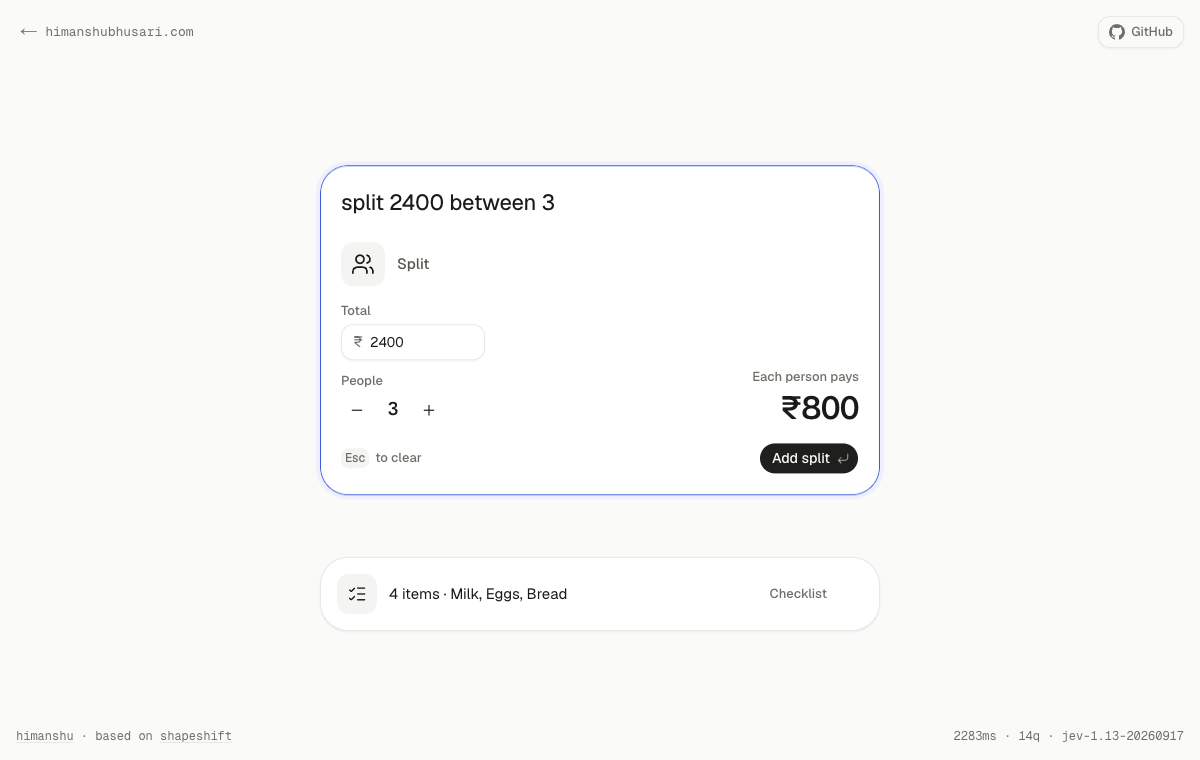
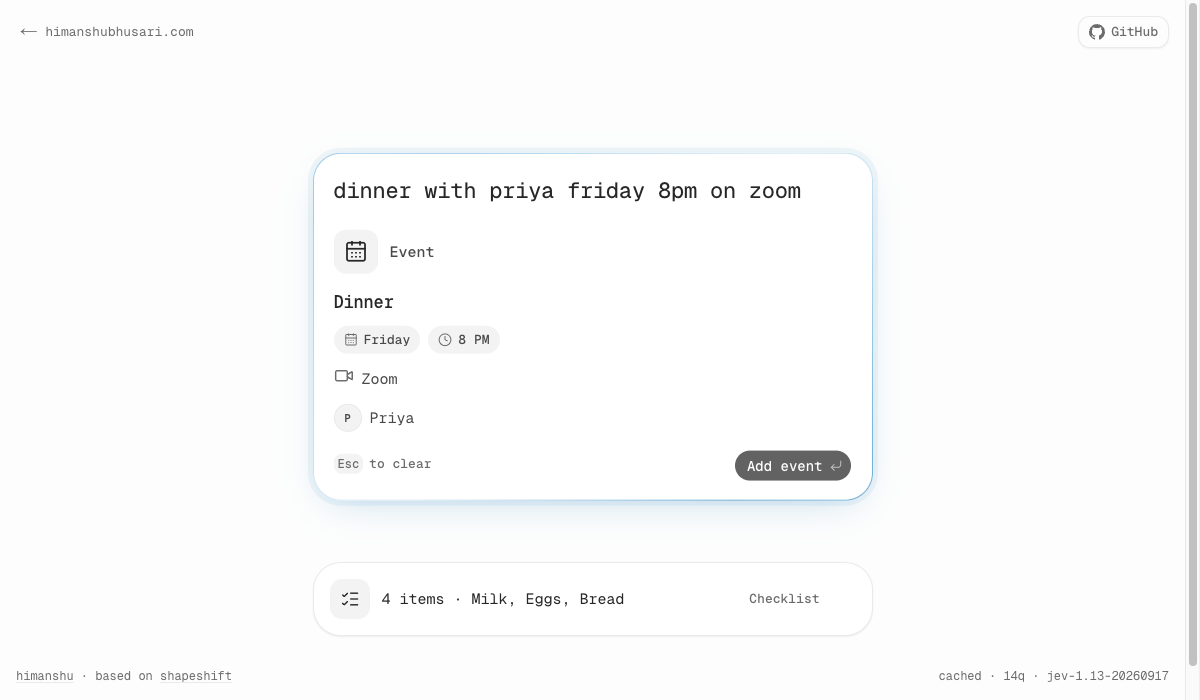
Match site light theme and Geist Mono, add orbiting blue border to the prompt, raise Worker upstream timeout to 8s with failure logging

diff --git a/src/app/globals.css b/src/app/globals.css
@@ -43,9 +43,9 @@
   --color-positive: var(--positive);
   --color-caution: var(--caution);
   --color-caution-text: var(--caution-text);
-  --font-sans: var(--font-geist-sans), ui-sans-serif, system-ui;
+  --font-sans: var(--font-geist-mono), ui-monospace;
   --font-mono: var(--font-geist-mono), ui-monospace;
-  --font-heading: var(--font-geist-sans), ui-sans-serif, system-ui;
+  --font-heading: var(--font-geist-mono), ui-monospace;
   --radius-shell: var(--radius-2xl);
 
   --ease-out: cubic-bezier(0.23, 1, 0.32, 1);
@@ -54,34 +54,34 @@
 :root {
   --radius: 0.75rem;
 
-  --background: #fafaf9;
-  --foreground: #1a1a19;
+  --background: #fdfdfd;
+  --foreground: #282728;
   --card: #ffffff;
-  --card-foreground: #1a1a19;
+  --card-foreground: #282728;
   --popover: #ffffff;
-  --popover-foreground: #1a1a19;
+  --popover-foreground: #282728;
 
-  --primary: #1a1a19;
-  --primary-foreground: #fafaf9;
-  --secondary: #f4f4f2;
-  --secondary-foreground: #1a1a19;
-  --muted: #f4f4f2;
-  --muted-foreground: #706e68; /* was #8f8d86 (3.0–3.3:1); now ≥4.6:1 on card, page and secondary */
-  --accent: #eef1fd;
-  --accent-foreground: #3b5bdb;
+  --primary: #282728;
+  --primary-foreground: #fdfdfd;
+  --secondary: #f3f3f3;
+  --secondary-foreground: #282728;
+  --muted: #f3f3f3;
+  --muted-foreground: #6b6b6b;
+  --accent: #e8f2f9;
+  --accent-foreground: #006cac;
   --destructive: #e03131;
 
-  --border: #e8e7e4;
-  --input: #e8e7e4;
-  --ring: #3b5bdb;
+  --border: #ece9e9;
+  --input: #ece9e9;
+  --ring: #006cac;
 
-  --brand: #3b5bdb;
-  --brand-soft: #eef1fd;
-  --ink-2: #57564f;
-  --line-strong: #d6d4cf;
+  --brand: #006cac;
+  --brand-soft: #e8f2f9;
+  --ink-2: #4a494a;
+  --line-strong: #dcd8d8;
   --positive: #2f9e44;
   --caution: #e8590c;
-  --caution-text: #bb4c19; /* caution hue at text contrast: 4.6:1 on the caution tint */
+  --caution-text: #bb4c19;
   --swatch-outline: rgb(26 26 25 / 0.06);
 
   --shadow-rest: 0 1px 2px rgb(26 26 25 / 0.04), 0 1px 1px rgb(26 26 25 / 0.03);
@@ -89,6 +89,13 @@
   --shadow-float: 0 2px 4px rgb(26 26 25 / 0.04), 0 20px 48px -12px rgb(26 26 25 / 0.14);
 
   color-scheme: light;
+
+  /* Prompt border: soft blue gradient that slowly circles the shell */
+  --halo-1: #8ec3e6;
+  --halo-2: #d4e9f6;
+  --halo-3: #4f9fd1;
+  --halo-soft: rgb(0 108 172 / 0.06);
+  --halo-glow: rgb(0 108 172 / 0.28);
 }
 
 /* Dark palette: follows the site-wide "theme" setting from himanshubhusari.com */
@@ -96,23 +103,23 @@ html[data-theme="dark"] {
 
   --background: #212737;
   --foreground: #eaedf3;
-  --card: #283044;
+  --card: #262d40;
   --card-foreground: #eaedf3;
   --popover: #2c3449;
   --popover-foreground: #eaedf3;
 
   --primary: #eaedf3;
   --primary-foreground: #212737;
-  --secondary: #323b52;
+  --secondary: #2a3347;
   --secondary-foreground: #eaedf3;
-  --muted: #323b52;
-  --muted-foreground: #a3abbd;
+  --muted: #2a3347;
+  --muted-foreground: #a0a9bc;
   --accent: #3d302b;
   --accent-foreground: #ff8a3d;
   --destructive: #ff6b6b;
 
-  --border: #3a4359;
-  --input: #3a4359;
+  --border: #2e3650;
+  --input: #2e3650;
   --ring: #ff6b01;
 
   --brand: #ff6b01;
@@ -129,6 +136,12 @@ html[data-theme="dark"] {
   --shadow-float: 0 2px 4px rgb(0 0 0 / 0.2), 0 20px 48px -12px rgb(0 0 0 / 0.5);
 
   color-scheme: dark;
+
+  --halo-1: #3f7fb0;
+  --halo-2: #22405c;
+  --halo-3: #6fb3e3;
+  --halo-soft: rgb(111 179 227 / 0.07);
+  --halo-glow: rgb(111 179 227 / 0.22);
 }
 
 @layer base {
@@ -244,4 +257,29 @@ html[data-theme="dark"] {
 body.demo-idle,
 body.demo-idle * {
   cursor: none !important;
+}
+
+/* The prompt shell: a delicate blue gradient border that slowly circles, plus a faint halo */
+@property --jev-angle {
+  syntax: "<angle>";
+  initial-value: 0deg;
+  inherits: false;
+}
+.jev-shell {
+  border: 1px solid transparent;
+  background:
+    linear-gradient(var(--card), var(--card)) padding-box,
+    conic-gradient(from var(--jev-angle), var(--halo-1), var(--halo-2), var(--halo-3), var(--halo-2), var(--halo-1)) border-box;
+  box-shadow: 0 0 0 4px var(--halo-soft), var(--shadow-rest);
+  transition: box-shadow 200ms var(--ease-out);
+  animation: jev-orbit 12s linear infinite;
+}
+.jev-shell:focus-within {
+  box-shadow: 0 0 0 5px var(--halo-soft), 0 12px 40px -16px var(--halo-glow);
+}
+@keyframes jev-orbit {
+  to { --jev-angle: 360deg; }
+}
+@media (prefers-reduced-motion: reduce) {
+  .jev-shell { animation: none; }
 }

diff --git a/worker/src/index.js b/worker/src/index.js
@@ -186,12 +186,17 @@ export default {
           "X-OpenRouter-Title": "Jev Playground",
         },
         body: JSON.stringify({ model: MODEL, state: { text }, questions: QUESTIONS }),
-        signal: AbortSignal.timeout(4000),
+        // Jev usually answers in ~0.2s or ~2.5s; 8s leaves room for the slow tail.
+        signal: AbortSignal.timeout(8000),
       });
-    } catch {
+    } catch (err) {
+      console.warn(`[jev] fetch failed after ${Date.now() - started}ms: ${err}`);
       return json({ error: "Upstream unreachable" }, 502, cors);
     }
-    if (!res.ok) return json({ error: `Upstream ${res.status}` }, 502, cors);
+    if (!res.ok) {
+      console.warn(`[jev] upstream ${res.status}: ${(await res.text()).slice(0, 300)}`);
+      return json({ error: `Upstream ${res.status}` }, 502, cors);
+    }
 
     const data = await res.json().catch(() => null);
     if (!data?.answers?.intent) return json({ error: "Bad upstream response" }, 502, cors);

diff --git a/src/components/shapeshift/MorphContainer.tsx b/src/components/shapeshift/MorphContainer.tsx
@@ -29,7 +29,7 @@ export function MorphContainer({
         layoutId="shell"
         transition={reduce ? tween.fade : spring.morph}
         style={{ borderRadius: 28 }}
-        className="group/shell relative overflow-hidden border border-border bg-card shadow-[var(--shadow-rest)] outline-0 outline-brand-soft transition-[border-color,outline-width] duration-150 ease-out focus-within:border-brand focus-within:outline-4"
+        className="group/shell jev-shell relative overflow-hidden"
       >
         <motion.div
           aria-hidden

diff --git a/src/app/layout.tsx b/src/app/layout.tsx
@@ -22,7 +22,7 @@ export const metadata: Metadata = {
 };
 
 // viewport-fit=cover lets fixed chrome (HUD, toasts) pad itself away from the home indicator.
-export const viewport: Viewport = { themeColor: "#fafaf9", colorScheme: "light dark", viewportFit: "cover" };
+export const viewport: Viewport = { themeColor: "#fdfdfd", colorScheme: "light dark", viewportFit: "cover" };
 
 export default function RootLayout({ children }: LayoutProps<"/">) {
   return (
